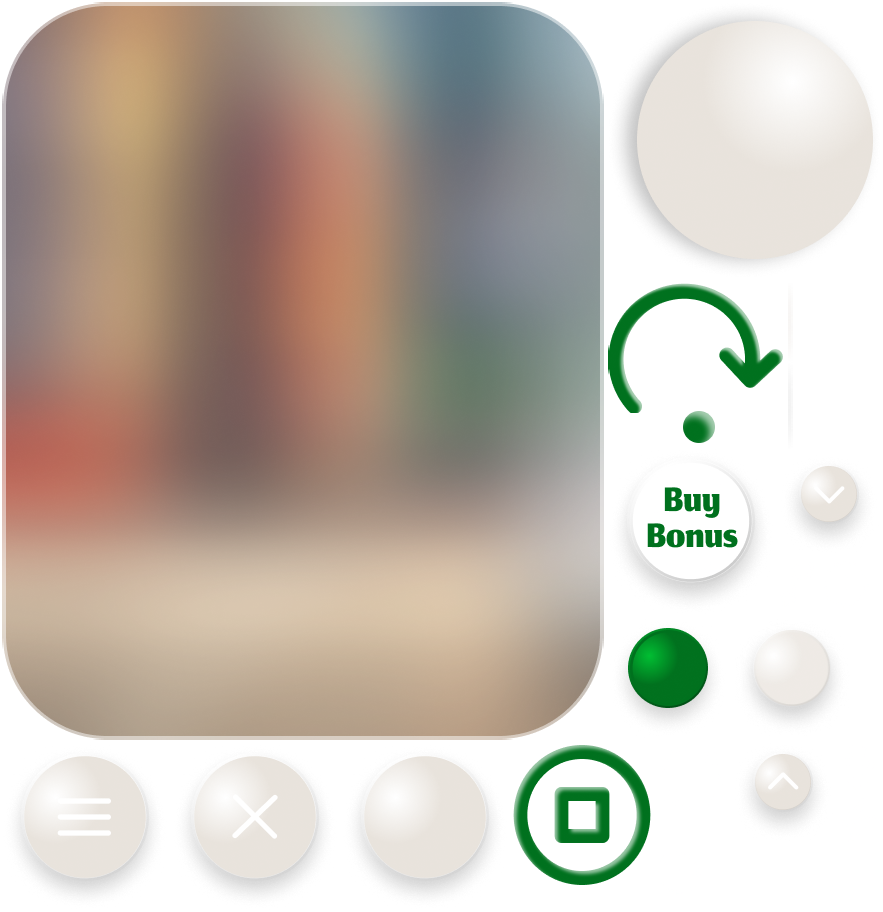
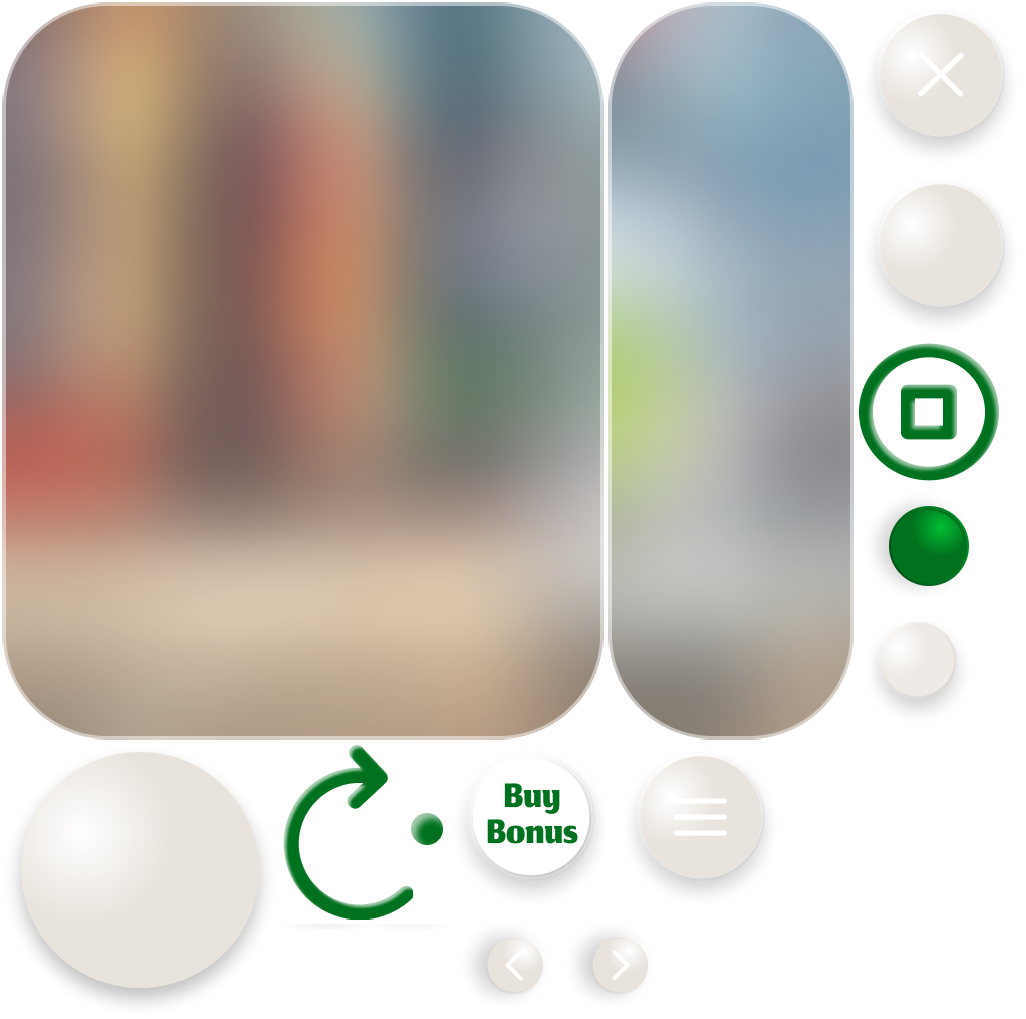
Added multiple spins counter.

diff --git a/src/views/MultipleSpinsL.ts b/src/views/MultipleSpinsL.ts
@@ -1,0 +1,154 @@
+import { lego } from "@armathai/lego";
+import anime from "animejs";
+import { Container, Graphics, Rectangle, Sprite, Text } from "pixi.js";
+import { uiMultipleNumbersBkgL, uiMultipleSpinsBkgL, uiMultipleSpinsIconL } from "../configs/spritesConfig";
+import { multipleSpinsButtonTextConfig, multipleSpinsTextConfig } from "../configs/textConfig";
+import { UIEvents } from "../events/MainEvents";
+import { drawBounds, makeSprite, makeText } from "../utils/Utils";
+
+const values: number[] = [200, 100, 50, 20, 10];
+
+class MultipleSpinButton extends Container {
+  private valueText!: Text;
+  private hitAreaGr!: Graphics;
+
+  constructor(private value: number) {
+    super();
+
+    this.build();
+    this.hitAreaGr = drawBounds(this);
+    this.hitAreaGr.eventMode = "static";
+    this.hitAreaGr.on("pointerdown", () => {
+      lego.event.emit(UIEvents.MultipleSpinNumberClick, this.value);
+      this.emit("numberClicked", this.value);
+    });
+    this.hitAreaGr.alpha = 0;
+  }
+
+  public getBounds(skipUpdate?: boolean, rect?: Rectangle): Rectangle {
+    return new Rectangle(0, 0, 244, 127);
+  }
+  private build(): void {
+    this.valueText = makeText(multipleSpinsButtonTextConfig(this.value.toString()));
+    this.addChild(this.valueText);
+  }
+}
+
+class MultipleSpinsToggle extends Container {
+  private bkg!: Sprite;
+  private buttons: MultipleSpinButton[] = [];
+
+  private _isHidden = false;
+
+  constructor() {
+    super();
+    this.build();
+  }
+
+  public get isHidden(): boolean {
+    return this._isHidden;
+  }
+
+  public hide(): void {
+    anime({
+      targets: this.scale,
+      x: 0,
+      y: 0,
+      duration: 300,
+      easing: "easeInOutSine",
+      complete: () => {
+        this.emit("toggleClosed");
+        this._isHidden = true;
+      },
+    });
+  }
+
+  public show(): void {
+    anime({
+      targets: this.scale,
+      x: 1,
+      y: 1,
+      duration: 300,
+      easing: "easeInOutSine",
+      complete: () => {
+        this.emit("toggleOpened");
+        this._isHidden = false;
+      },
+    });
+  }
+
+  private build(): void {
+    this.bkg = makeSprite(uiMultipleNumbersBkgL());
+    this.addChild(this.bkg);
+
+    this.buttons = values.map((v, i) => {
+      const button = new MultipleSpinButton(v);
+      button.y = -this.bkg.height * 1.2 + 50 + button.height * i;
+      button.x = -this.bkg.width / 2;
+      button.on("numberClicked", (value: number) => {
+        this.emit("clickedNumber", value);
+        this.hide();
+      });
+      this.addChild(button);
+      return button;
+    });
+  }
+}
+
+export class MultipleSpins extends Container {
+  private bkg!: Sprite;
+  private icon!: Sprite;
+  private number!: Text;
+  private toggle!: MultipleSpinsToggle;
+
+  constructor() {
+    super();
+    this.build();
+  }
+
+  public getBounds(): Rectangle {
+    return this.bkg.getBounds();
+  }
+
+  private updateNumberWidth(): void {
+    this.number.scale.set(1);
+    this.number.scale.set(Math.min(1, (this.bkg.width * 0.6) / this.number.width));
+  }
+
+  private build(): void {
+    this.bkg = makeSprite(uiMultipleSpinsBkgL());
+    this.bkg.eventMode = "static";
+    this.bkg.on("pointerdown", () => {
+      this.toggle.isHidden ? this.toggle.show() : this.toggle.hide();
+      this.bkg.eventMode = "none";
+    });
+    this.addChild(this.bkg);
+
+    this.icon = makeSprite(uiMultipleSpinsIconL());
+    this.addChild(this.icon);
+
+    this.number = makeText(multipleSpinsTextConfig());
+    this.addChild(this.number);
+
+    this.toggle = new MultipleSpinsToggle();
+    this.toggle.visible = false;
+    this.toggle.hide();
+    this.toggle.on("clickedNumber", (value) => {
+      this.icon.visible = false;
+      this.number.text = value.toString();
+      this.updateNumberWidth();
+    });
+
+    this.toggle.on("toggleClosed", () => {
+      if (!this.toggle.visible) {
+        this.toggle.visible = true;
+      }
+      this.bkg.eventMode = "static";
+    });
+
+    this.toggle.on("toggleOpened", () => {
+      this.bkg.eventMode = "static";
+    });
+    this.addChild(this.toggle);
+  }
+}

diff --git a/src/configs/spritesConfig.ts b/src/configs/spritesConfig.ts
@@ -138,23 +138,18 @@ export const uiSpinBtnStopL = (): SpriteConfig => ({
   atlas: "ui_l",
   name: "spin_button_stop",
   x: -12,
-  y: 0,
 });
 
 export const uiMenuBtnL = (): SpriteConfig => ({
   frame: "menu.png",
   atlas: "ui_l",
   name: "menu_button",
-  x: 0,
-  y: 0,
 });
 
 export const uiMenuCloseBtnL = (): SpriteConfig => ({
   frame: "menu_close.png",
   atlas: "ui_l",
   name: "menu_close_button",
-  x: 0,
-  y: 0,
 });
 
 export const uiMenuBkgL = (): SpriteConfig => ({
@@ -162,8 +157,6 @@ export const uiMenuBkgL = (): SpriteConfig => ({
   atlas: "ui_l",
   name: "menu_background",
   anchor: new Point(0.5, 1.2),
-  x: 0,
-  y: 0,
 });
 
 export const uiMenuButtonBkgL = (): SpriteConfig => ({
@@ -187,5 +180,24 @@ export const uiLineL = (x: number): SpriteConfig => ({
   atlas: "ui_l",
   name: "line_" + x,
   x,
-  y: 0,
+});
+
+export const uiMultipleSpinsBkgL = (): SpriteConfig => ({
+  frame: "multiple_spins_bkg.png",
+  atlas: "ui_l",
+  name: "multiple_spins_bkg",
+});
+
+export const uiMultipleSpinsIconL = (): SpriteConfig => ({
+  frame: "multiple_spins_icon.png",
+  atlas: "ui_l",
+  name: "multiple_spins_icon",
+  y: -10,
+});
+
+export const uiMultipleNumbersBkgL = (): SpriteConfig => ({
+  frame: "multiple_numbers_bkg.png",
+  atlas: "ui_l",
+  name: "multiple_numbers_bkg",
+  anchor: { x: 0.5, y: 1.2 },
 });

diff --git a/src/views/UIView.ts b/src/views/UIView.ts
@@ -6,6 +6,7 @@ import { makeSprite } from "../utils/Utils";
 import { Balance } from "./BalanceView";
 import { Bet } from "./BetView";
 import { MenuLandscapeView } from "./Menu";
+import { MultipleSpins } from "./MultipleSpinsL";
 import { SpinButton } from "./SpinButton";
 
 export class UILandscapeWrapper extends Container {
@@ -14,6 +15,7 @@ export class UILandscapeWrapper extends Container {
   private buyBonusBtn!: Sprite;
   private spinBtn!: SpinButton;
   private balance!: Balance;
+  private multipleSpins!: MultipleSpins;
   private bet!: Bet;
 
   private lines: Sprite[] = [];
@@ -34,6 +36,7 @@ export class UILandscapeWrapper extends Container {
     this.buildSpinButtonBkg();
     this.buildBalance();
     this.buildBet();
+    this.buildMultipleSpins();
     this.buildLines();
   }
 
@@ -69,7 +72,12 @@ export class UILandscapeWrapper extends Container {
     this.bet = new Bet();
     this.bet.x = 657;
     this.addChild(this.bet);
-    this.bet.setBet(100);
+  }
+
+  private buildMultipleSpins(): void {
+    this.multipleSpins = new MultipleSpins();
+    this.multipleSpins.position.set(208, 11);
+    this.addChild(this.multipleSpins);
   }
 
   private buildLines(): void {

diff --git a/src/configs/textConfig.ts b/src/configs/textConfig.ts
@@ -177,3 +177,28 @@ export const menuButtonTextConfig = (text: string): TextConfig => ({
     letterSpacing: 1,
   },
 });
+
+export const multipleSpinsTextConfig = (text = ""): TextConfig => ({
+  text,
+  y: -14,
+  anchor: { x: 0.5, y: 0.5 },
+  style: {
+    fontSize: 100,
+    fill: "#ffffff",
+    fontFamily: "JomhuriaRegular",
+    letterSpacing: 1,
+  },
+});
+
+export const multipleSpinsButtonTextConfig = (text = ""): TextConfig => ({
+  text,
+  x: 122,
+  y: 62,
+  anchor: { x: 0.5, y: 0.5 },
+  style: {
+    fontSize: 100,
+    fill: "#ffffff",
+    fontFamily: "JomhuriaRegular",
+    letterSpacing: 1,
+  },
+});

diff --git a/src/events/MainEvents.ts b/src/events/MainEvents.ts
@@ -33,6 +33,8 @@ export const UIEvents = {
   InfoButtonClick: "UIEventsInfoButtonClick",
   TurboButtonClick: "UIEventsTurboButtonClick",
   HistoryButtonClick: "UIEventsHistoryButtonClick",
+
+  MultipleSpinNumberClick: "UIEventsMultipleSpinNumberClick",
 };
 
 export const ReelViewEvents = {

diff --git a/src/commands/GameCommands.ts b/src/commands/GameCommands.ts
@@ -85,8 +85,6 @@ export const slotMachineNewElementsDropCompleteCommand = (): void => {
 };
 
 export const setBlockActivityCommand = (isBlocked: boolean): void => {
-  console.warn("remove block", isBlocked);
-
   if (Head.gameModel) {
     Head.gameModel.isBlockedAction = isBlocked;
   }
